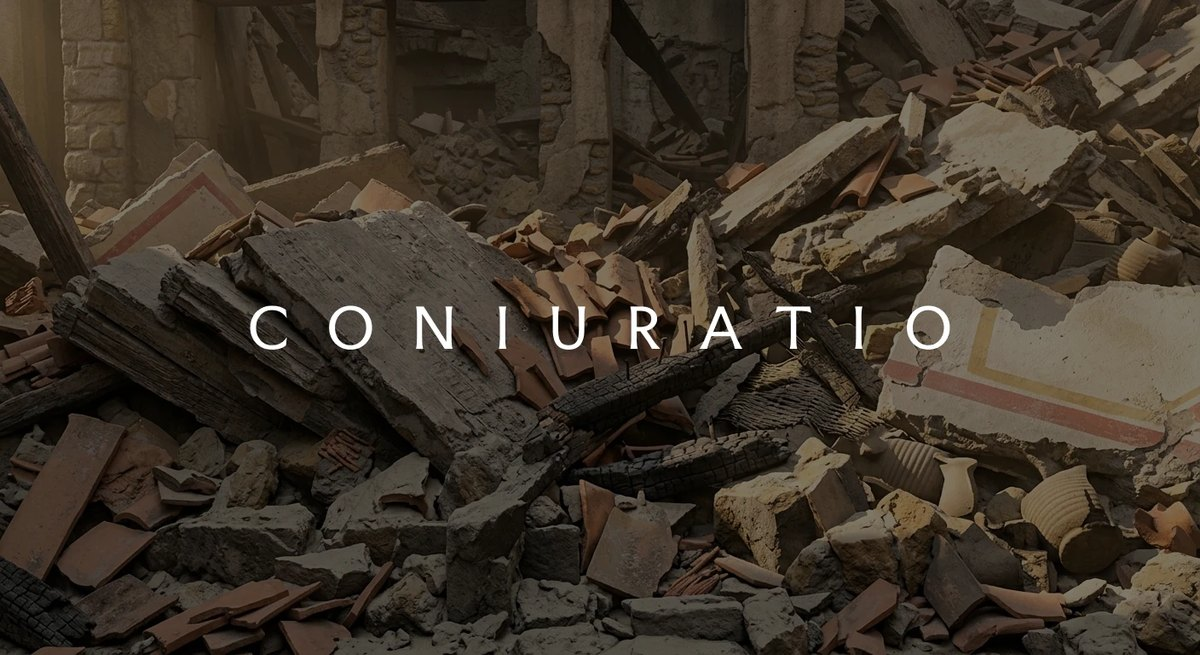
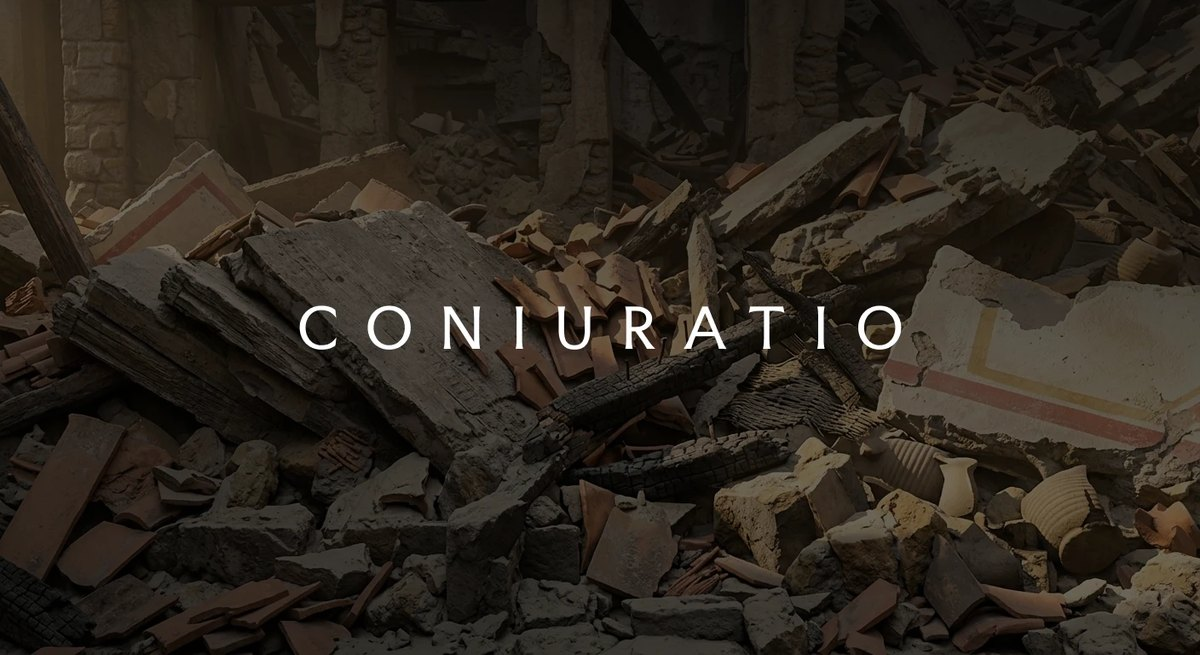
Coniuratio: nuova copertina e prime ipotesi delle icone
Claude-Session: https://claude.ai/code/session_01R5LiDbTbGFbUFmFFDBYqmx

diff --git a/de/progetti/coniuratio.html b/de/progetti/coniuratio.html
@@ -90,14 +90,18 @@
       <figure class="fig"><img src="../../img/coniuratio/pavimento.jpg" alt="Abgenutzte dunkle Holzdielen von oben" width="1408" height="768" loading="lazy"><figcaption>Holzboden</figcaption></figure>
     </div>
 
-    <section class="block g4 todo">
+    <section class="block g4">
       <h2 class="label mono">Spiel-Interface</h2>
       <!-- La sezione più importante per chi ti valuta come UI/UX designer -->
       <div class="body">
-        <p>Wie du HUD, Menüs und Tutorial gestaltet hast: welche Informationen die Spielenden wann brauchen und wie du sie führst, ohne alles zu erklären.</p>
-        <p>Wenn du das Spiel von anderen testen lassen hast, erzähl, was du nach der Beobachtung geändert hast.</p>
+        <p>Erste Ideen für die Interface-Icons.</p>
+        <p class="todo">Wie du HUD, Menüs und Tutorial gestaltet hast: welche Informationen die Spielenden wann brauchen und wie du sie führst, ohne alles zu erklären.</p>
+        <p class="todo">Wenn du das Spiel von anderen testen lassen hast, erzähl, was du nach der Beobachtung geändert hast.</p>
       </div>
     </section>
+    <div class="media">
+      <figure><img src="../../img/coniuratio/icone.png" alt="Vier Metall-Icons mit Perlrand auf dunkelbordeauxfarbenem, rotem, elfenbeinfarbenem und säuregrünem Grund: eine leere Scheibe, ein Ringgriff, eine offene Hand und ein Auge" width="1080" height="270" loading="lazy"><figcaption>Icons, erste Ideen</figcaption></figure>
+    </div>
     <div class="figs g4 two todo">
       <figure class="fig"><div class="ph" data-label="HUD im Spiel"></div><figcaption>HUD: nur das, was gerade gebraucht wird</figcaption></figure>
       <figure class="fig"><div class="ph" data-label="Menü / Inventar"></div><figcaption>Hauptmenü und Inventar</figcaption></figure>

diff --git a/progetti/coniuratio.html b/progetti/coniuratio.html
@@ -90,14 +90,18 @@
       <figure class="fig"><img src="../img/coniuratio/pavimento.jpg" alt="Assi di legno scuro consumate, viste dall'alto" width="1408" height="768" loading="lazy"><figcaption>Pavimento in legno</figcaption></figure>
     </div>
 
-    <section class="block g4 todo">
+    <section class="block g4">
       <h2 class="label mono">Interfaccia di gioco</h2>
       <!-- La sezione più importante per chi ti valuta come UI/UX designer -->
       <div class="body">
-        <p>Come hai progettato HUD, menu e tutorial: quali informazioni servono al giocatore e quando, come lo guidi senza spiegargli tutto.</p>
-        <p>Se hai fatto provare il gioco ad altre persone, racconta cosa hai cambiato dopo averle osservate.</p>
+        <p>Prime ipotesi per le icone dell'interfaccia.</p>
+        <p class="todo">Come hai progettato HUD, menu e tutorial: quali informazioni servono al giocatore e quando, come lo guidi senza spiegargli tutto.</p>
+        <p class="todo">Se hai fatto provare il gioco ad altre persone, racconta cosa hai cambiato dopo averle osservate.</p>
       </div>
     </section>
+    <div class="media">
+      <figure><img src="../img/coniuratio/icone.png" alt="Quattro icone in metallo con bordo perlinato su fondi bordeaux scuro, rosso, avorio e verde acido: un disco vuoto, una maniglia ad anello, una mano aperta e un occhio" width="1080" height="270" loading="lazy"><figcaption>Icone, ipotesi</figcaption></figure>
+    </div>
     <div class="figs g4 two todo">
       <figure class="fig"><div class="ph" data-label="HUD in gioco"></div><figcaption>HUD: solo quello che serve nel momento</figcaption></figure>
       <figure class="fig"><div class="ph" data-label="Menu / inventario"></div><figcaption>Menu principale e inventario</figcaption></figure>

diff --git a/en/progetti/coniuratio.html b/en/progetti/coniuratio.html
@@ -90,14 +90,18 @@
       <figure class="fig"><img src="../../img/coniuratio/pavimento.jpg" alt="Worn dark wooden planks seen from above" width="1408" height="768" loading="lazy"><figcaption>Wooden floor</figcaption></figure>
     </div>
 
-    <section class="block g4 todo">
+    <section class="block g4">
       <h2 class="label mono">Game interface</h2>
       <!-- La sezione più importante per chi ti valuta come UI/UX designer -->
       <div class="body">
-        <p>How you designed the HUD, menus and tutorial: what information the player needs and when, and how you guide them without explaining everything.</p>
-        <p>If you had other people try the game, describe what you changed after watching them.</p>
+        <p>Early ideas for the interface icons.</p>
+        <p class="todo">How you designed the HUD, menus and tutorial: what information the player needs and when, and how you guide them without explaining everything.</p>
+        <p class="todo">If you had other people try the game, describe what you changed after watching them.</p>
       </div>
     </section>
+    <div class="media">
+      <figure><img src="../../img/coniuratio/icone.png" alt="Four metal icons with beaded borders on dark burgundy, red, ivory and acid green backgrounds: an empty disc, a ring handle, an open hand and an eye" width="1080" height="270" loading="lazy"><figcaption>Icons, early ideas</figcaption></figure>
+    </div>
     <div class="figs g4 two todo">
       <figure class="fig"><div class="ph" data-label="In-game HUD"></div><figcaption>HUD: only what you need in the moment</figcaption></figure>
       <figure class="fig"><div class="ph" data-label="Menu / inventory"></div><figcaption>Main menu and inventory</figcaption></figure>
